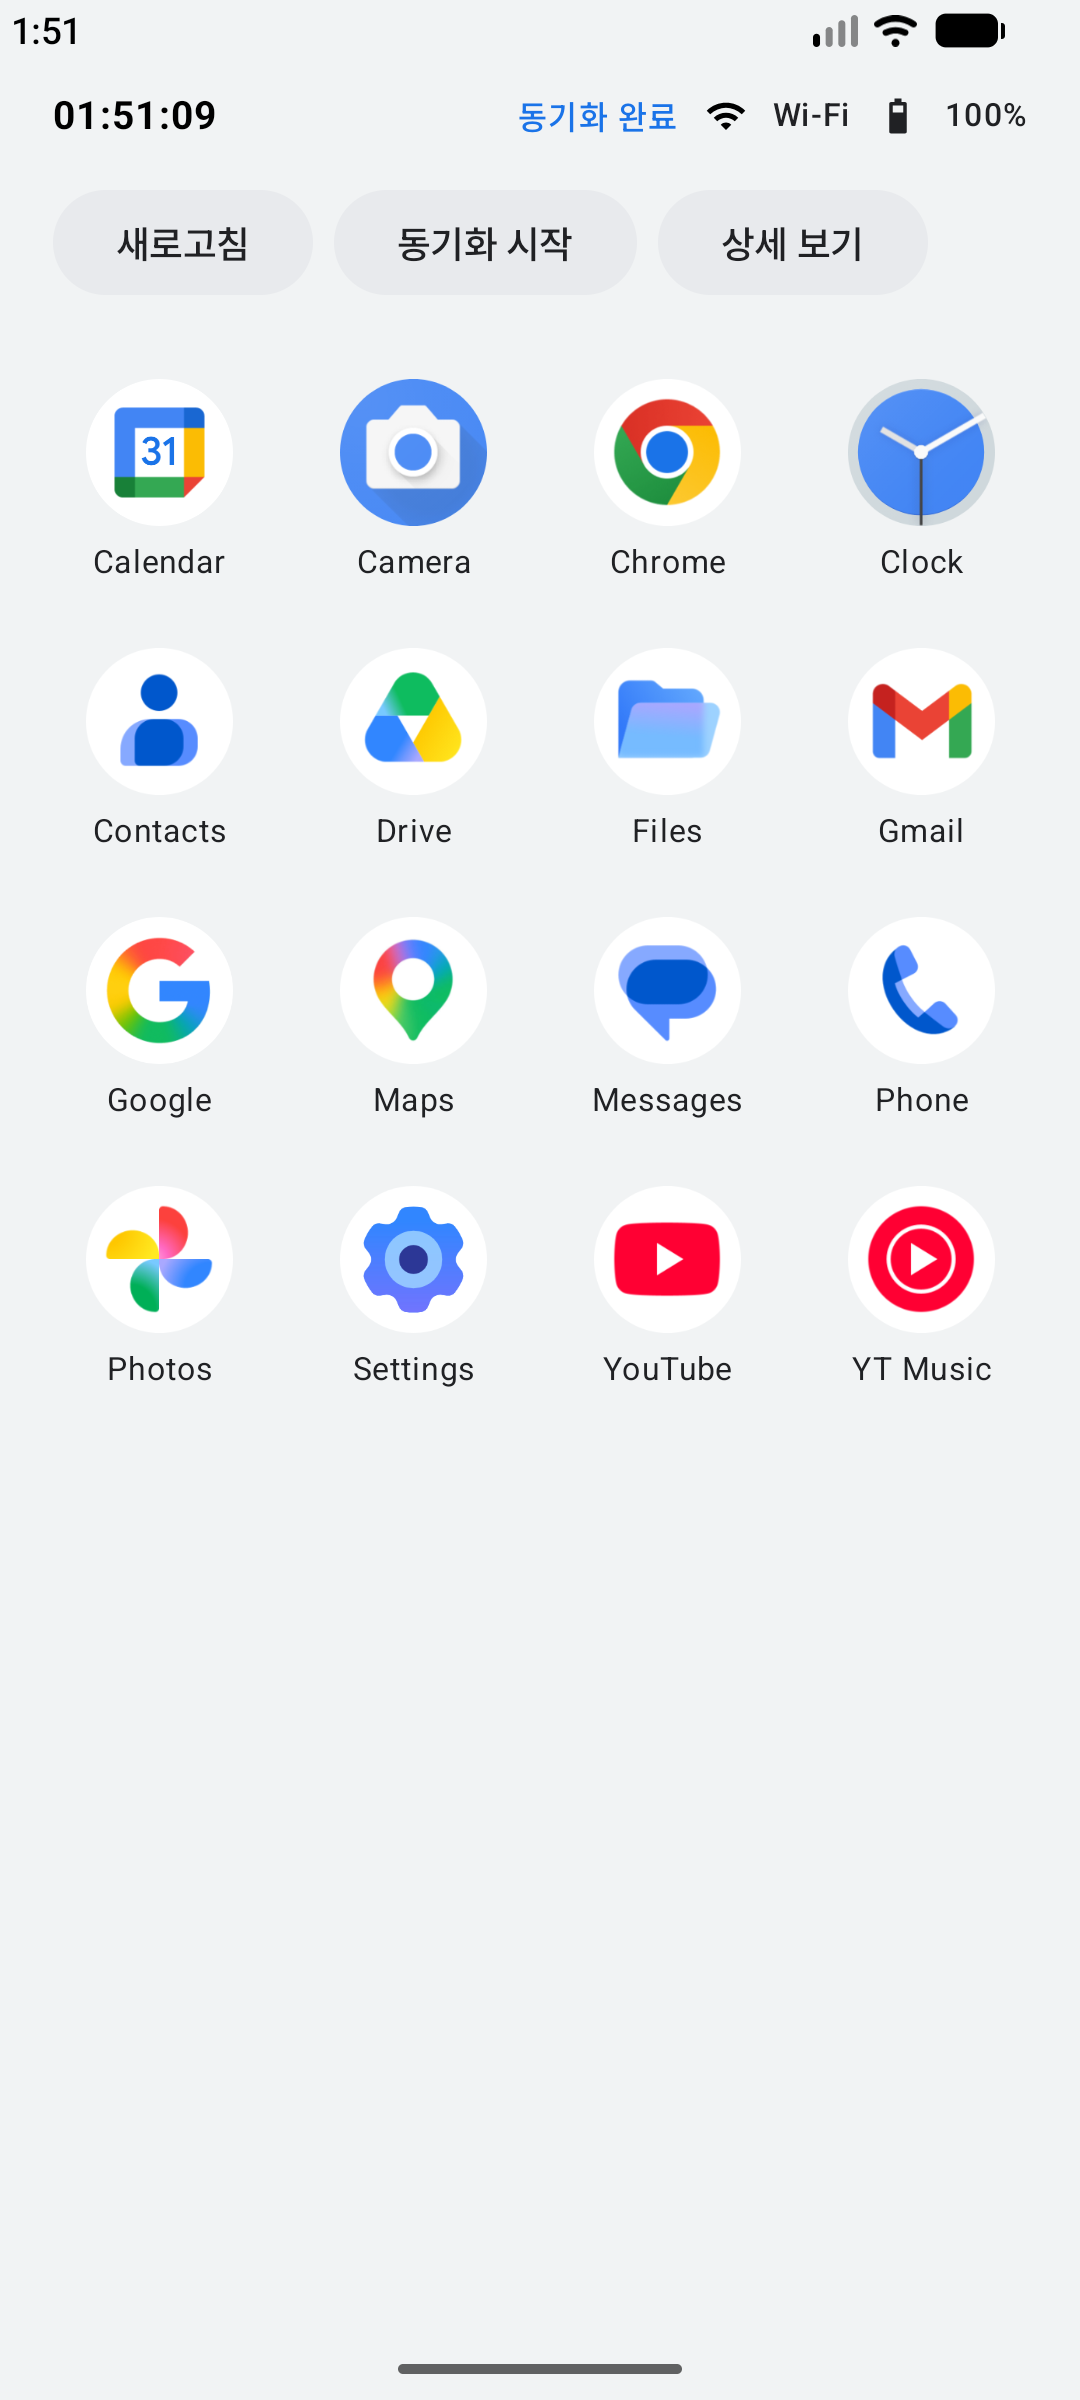
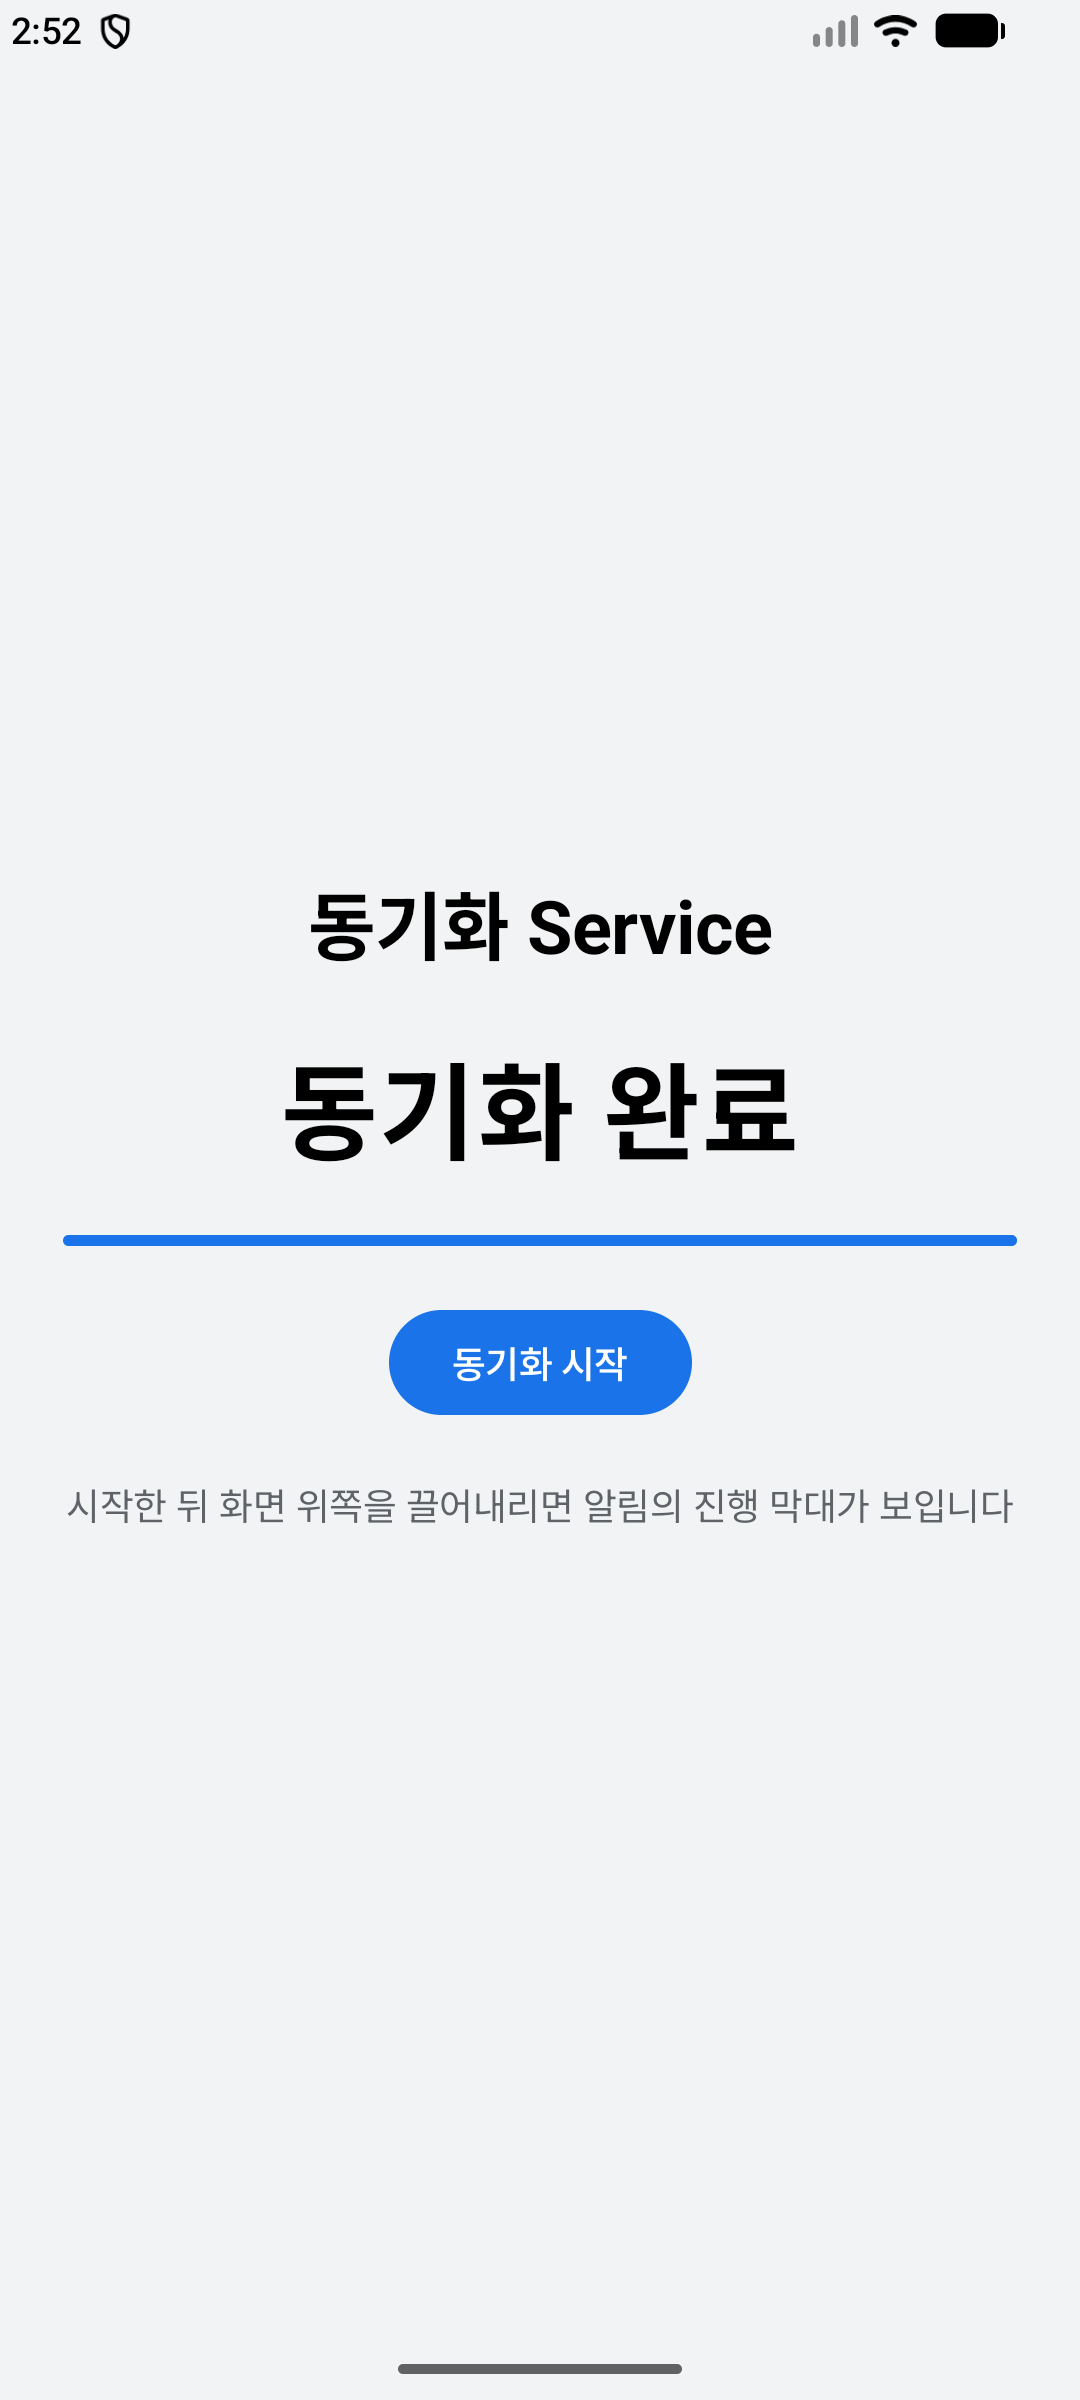
♻ refactor: 2일차 6~7교시 폴더를 Service와 알림 실습만 보이게 줄임
- MainActivity 를 동기화 버튼과 진행률만 있는 화면으로 바꿈
- Manifest 에서 BootReceiver, DetailActivity, queries, 부팅과 네트워크 권한을 뺌
- README 에 이 폴더에 든 파일을 적고, 진행률 스크린샷 3장을 새 화면으로 바꿈

diff --git a/day2_step06_service/app/src/main/java/com/example/minilauncher/MainActivity.kt b/day2_step06_service/app/src/main/java/com/example/minilauncher/MainActivity.kt
@@ -1,110 +1,89 @@
 package com.example.minilauncher
 
-import com.example.minilauncher.practice.myNotificationPractice
-import com.example.minilauncher.practice.notificationPractice
-import android.content.Intent
-import android.os.Bundle
-import android.util.Log
-import androidx.activity.ComponentActivity
-import androidx.activity.compose.setContent
-import androidx.activity.enableEdgeToEdge
-import androidx.compose.foundation.background
-import androidx.compose.foundation.layout.Column
-import androidx.compose.foundation.layout.fillMaxSize
-import androidx.compose.foundation.layout.safeDrawingPadding
-import androidx.compose.runtime.Composable
-import androidx.compose.runtime.getValue
-import androidx.compose.ui.Modifier
-import androidx.compose.ui.platform.LocalContext
-import androidx.lifecycle.compose.collectAsStateWithLifecycle
-import androidx.lifecycle.viewmodel.compose.viewModel
-import androidx.lifecycle.viewmodel.initializer
-import androidx.lifecycle.viewmodel.viewModelFactory
-import com.example.minilauncher.data.FakeAppRepository
-import com.example.minilauncher.ui.AppsContent
-import com.example.minilauncher.ui.ButtonRow
-import com.example.minilauncher.system.BootReceiver
-import com.example.minilauncher.system.rememberBattery
-import com.example.minilauncher.system.rememberClock
-import com.example.minilauncher.system.rememberNetwork
-import com.example.minilauncher.service.SyncService
-import com.example.minilauncher.service.rememberSyncProgress
-import com.example.minilauncher.ui.StatusArea
-import com.example.minilauncher.ui.SyncIndicator
 import android.Manifest
 import android.os.Build
+import android.os.Bundle
+import androidx.activity.ComponentActivity
 import androidx.activity.compose.rememberLauncherForActivityResult
+import androidx.activity.compose.setContent
+import androidx.activity.enableEdgeToEdge
 import androidx.activity.result.contract.ActivityResultContracts
-import com.example.minilauncher.ui.StatusInfo
-import androidx.compose.runtime.remember
+import androidx.compose.foundation.background
+import androidx.compose.foundation.layout.Arrangement
+import androidx.compose.foundation.layout.Column
+import androidx.compose.foundation.layout.fillMaxSize
+import androidx.compose.foundation.layout.fillMaxWidth
+import androidx.compose.foundation.layout.padding
+import androidx.compose.foundation.layout.safeDrawingPadding
+import androidx.compose.material3.Button
+import androidx.compose.material3.LinearProgressIndicator
+import androidx.compose.material3.MaterialTheme
+import androidx.compose.material3.Text
+import androidx.compose.runtime.Composable
+import androidx.compose.ui.Alignment
+import androidx.compose.ui.Modifier
+import androidx.compose.ui.platform.LocalContext
+import androidx.compose.ui.text.font.FontWeight
+import androidx.compose.ui.unit.dp
+import androidx.compose.ui.unit.sp
+import com.example.minilauncher.practice.myNotificationPractice
+import com.example.minilauncher.practice.notificationPractice
+import com.example.minilauncher.service.SyncService
+import com.example.minilauncher.service.rememberSyncProgress
 import com.example.minilauncher.ui.theme.LauncherBackground
 import com.example.minilauncher.ui.theme.MiniLauncherTheme
 
-private const val TAG = "Lifecycle"
-
+// 2일차 6~7교시 폴더입니다. 이번 시간에 쓰는 코드만 남겼습니다.
+// service/SyncService.kt            동기화를 하는 Foreground Service
+// service/SyncConnection.kt         화면이 Service 에 붙어(bind) 진행률을 받아 오는 통로
+// practice/NotificationPractice.kt  알림 실습 5단계
 class MainActivity : ComponentActivity() {
     override fun onCreate(savedInstanceState: Bundle?) {
         super.onCreate(savedInstanceState)
+        // 알림 실습: 숫자를 1부터 5까지 바꿔 가며 Run 합니다
         notificationPractice(this, step = 1)
         // myNotificationPractice(this, step = 1)   // 직접 쓴 코드(NotificationPractice_My.kt)를 실행하려면 위 줄 대신 이 줄을 씁니다
-        Log.d(TAG, "onCreate (복원 데이터 ${if (savedInstanceState == null) "없음" else "있음"})")
-        // 2일차 오후부터는 에러 화면이 실습을 방해하지 않게 실패 확률 기본값을 0 으로 둡니다 (오전 실습은 0.3)
-        // failRate: 앱 목록을 불러올 때 일부러 실패하게 만드는 확률입니다 (실패 화면을 보려는 연습용).
-        // 뒤의 숫자가 기본값입니다. 0.3 이면 열 번에 세 번쯤 실패하고, 0 이면 실패하지 않습니다
-        val failRate = intent.getFloatExtra("fail_rate", 0f)
-        // factory: ViewModel 을 만드는 방법을 적어 둔 것입니다. 만들 때 넘길 값(가짜 목록)이 있어서 필요합니다.
-        // 아래의 viewModel(factory = factory) 는 ViewModel 이 없으면 이 방법으로 만들고, 있으면 있던 것을
-        // 돌려줍니다. 그래서 화면을 돌려도 같은 ViewModel 이 남습니다
-        val factory = viewModelFactory { initializer { LauncherViewModel(FakeAppRepository(failRate)) } }
         enableEdgeToEdge()
         setContent {
             MiniLauncherTheme {
-                LauncherScreen(viewModel(factory = factory))
+                SyncScreen()
             }
         }
     }
-
-    override fun onStart() { super.onStart(); Log.d(TAG, "onStart") }
-    override fun onResume() { super.onResume(); Log.d(TAG, "onResume") }
-    override fun onPause() { Log.d(TAG, "onPause"); super.onPause() }
-    override fun onStop() { Log.d(TAG, "onStop"); super.onStop() }
-    override fun onDestroy() { Log.d(TAG, "onDestroy (회전 때문이면 true: $isChangingConfigurations)"); super.onDestroy() }
 }
 
 @Composable
-fun LauncherScreen(vm: LauncherViewModel) {
-    // StateFlow 를 Compose 상태로 바꿉니다. 값이 바뀔 때마다 이 함수가 다시 그려집니다
-    val state by vm.uiState.collectAsStateWithLifecycle()
+fun SyncScreen() {
     val context = LocalContext.current
     // Android 13 부터 알림은 실행 중에 사용자에게 허락을 받아야 합니다. 거절해도 Service 는 돌아갑니다
     val askNotification = rememberLauncherForActivityResult(ActivityResultContracts.RequestPermission()) {
         SyncService.start(context)
     }
+    // 화면이 보이는 동안 Service 에 붙어 진행률을 받습니다 (service/SyncConnection.kt)
+    val sync = rememberSyncProgress()
 
-    Column(Modifier.fillMaxSize().background(LauncherBackground).safeDrawingPadding()) {
-        // 고정 값 대신 시스템 이벤트로 받은 값을 넣습니다
-        val boot = remember { BootReceiver.lastBoot(context) }
-        val sync = rememberSyncProgress()
-        StatusArea(StatusInfo(clock = rememberClock(), network = rememberNetwork(), battery = rememberBattery(), boot = boot)) {
-            SyncIndicator(sync)
+    Column(
+        Modifier.fillMaxSize().background(LauncherBackground).safeDrawingPadding().padding(24.dp),
+        horizontalAlignment = Alignment.CenterHorizontally,
+        verticalArrangement = Arrangement.spacedBy(20.dp, Alignment.CenterVertically),
+    ) {
+        Text("동기화 Service", style = MaterialTheme.typography.headlineMedium, fontWeight = FontWeight.Bold)
+        // 진행률: null 이면 쉬는 중, 0~99 는 진행 중, 100 이면 완료 (SyncService.progress)
+        val text = when {
+            sync == null -> "쉬는 중"
+            sync >= 100 -> "동기화 완료"
+            else -> "$sync%"
         }
-        ButtonRow(
-            "새로고침" to vm::load,
-            "동기화 시작" to {
-                if (Build.VERSION.SDK_INT >= 33) askNotification.launch(Manifest.permission.POST_NOTIFICATIONS)
-                else SyncService.start(context)
-            },
-            "상세 보기" to {
-                val apps = (state.apps as? AppsState.Success)?.apps.orEmpty()
-                apps.find { it.packageName == state.selected }?.let { app ->
-                    context.startActivity(
-                        Intent(context, DetailActivity::class.java)
-                            .putExtra(DetailActivity.EXTRA_LABEL, app.label)
-                            .putExtra(DetailActivity.EXTRA_PACKAGE, app.packageName)
-                    )
-                }
-            },
+        Text(text, fontSize = 40.sp, fontWeight = FontWeight.Bold)
+        LinearProgressIndicator(progress = { (sync ?: 0) / 100f }, modifier = Modifier.fillMaxWidth())
+        Button(onClick = {
+            if (Build.VERSION.SDK_INT >= 33) askNotification.launch(Manifest.permission.POST_NOTIFICATIONS)
+            else SyncService.start(context)
+        }) { Text("동기화 시작") }
+        Text(
+            "시작한 뒤 화면 위쪽을 끌어내리면 알림의 진행 막대가 보입니다",
+            style = MaterialTheme.typography.bodyMedium,
+            color = MaterialTheme.colorScheme.onSurfaceVariant,
         )
-        AppsContent(state = state.apps, selected = state.selected, onAppClick = vm::select, onRetry = vm::load)
     }
 }

diff --git a/day2_step06_service/README.md b/day2_step06_service/README.md
@@ -4,9 +4,11 @@
 
 `day2_step06_service` 폴더를 열고 시작합니다.
 
-화면이 꺼져도 계속 도는 작업을 Foreground Service로 만들고, 진행률을 알림과 상태 영역에 함께 보여 줍니다.
+화면이 꺼져도 계속 도는 작업을 Foreground Service로 만들고, 진행률을 알림과 화면에 함께 보여 줍니다.
 
-<p><img src="../docs/images/s06_syncing.png" alt="상태 영역 진행률" width="260">
+이 폴더에는 이번 시간에 쓰는 코드만 있습니다. `service/SyncService.kt`(동기화 Service), `service/SyncConnection.kt`(화면이 Service에 붙어 진행률을 받는 통로), `practice/NotificationPractice.kt`(알림 실습 5단계), 그리고 버튼 하나와 진행률만 있는 `MainActivity.kt`입니다.
+
+<p><img src="../docs/images/s06_syncing.png" alt="화면의 진행률" width="260">
 <img src="../docs/images/s06_notification.png" alt="알림창의 진행 막대" width="260">
 <img src="../docs/images/s06_done.png" alt="동기화 완료" width="260"></p>
 
@@ -21,8 +23,8 @@
 ## 따라 하기
 
 1. 앱을 실행하고 "동기화 시작"을 누릅니다.
-2. 알림 권한을 묻는 창이 뜨면 "허용"을 누릅니다. 두 번 거부하면 창이 다시 뜨지 않으니, 그때는 에뮬레이터의 Settings > Apps > Mini Launcher > Notifications에서 켭니다.
-3. 상태 영역에 진행률(%)이 올라갑니다. 약 20초 뒤 "동기화 완료"가 됩니다.
+2. 알림 권한을 묻는 창이 뜨면 "허용"을 누릅니다. 두 번 거부하면 창이 다시 뜨지 않으니, 그때는 에뮬레이터의 Settings > Apps > 이 앱 > Notifications에서 켭니다.
+3. 화면의 진행률(%)이 올라갑니다. 약 20초 뒤 "동기화 완료"가 됩니다.
 4. 진행 중에 에뮬레이터 위쪽을 끌어내립니다. 동기화 알림은 중요도를 낮게 둬서 아래쪽 Silent 칸에 들어 있습니다. 펼치면 진행 막대가 보입니다.
 5. Logcat 검색칸에 `tag:SyncService`를 넣고, 완료된 뒤 도구막대의 ◁(Back)으로 앱 화면을 닫아 봅니다. 앱을 열 때 이미 `onBind`와 "화면이 Service 에 연결됨"이 찍혀 있고, 동기화 시작부터는 이렇게 이어집니다.
 
